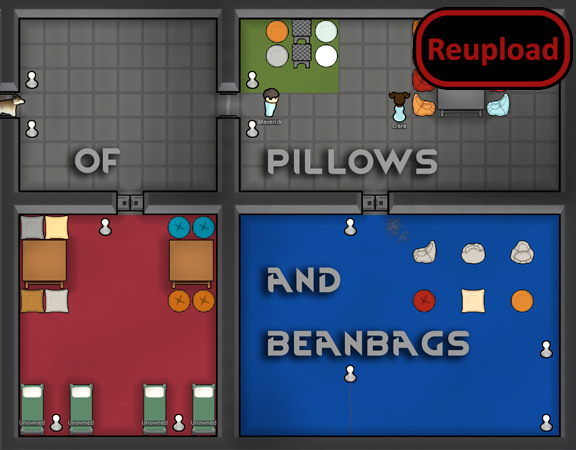
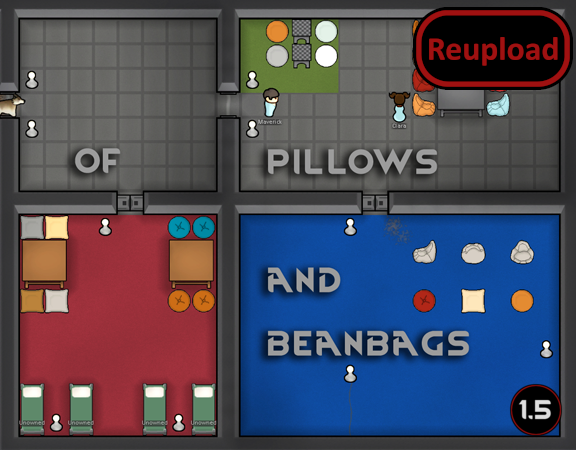
Mod updated for 1.5 and passed autotests

Changed region(s): [[0.875, 0.84, 1.0, 0.9644]]

diff --git a/README.md b/README.md
@@ -42,11 +42,13 @@ Changelog in forumtopic or about folder of mod.
 
 -  See if the the error persists if you just have this mod and its requirements active.
 -  If not, try adding your other mods until it happens again.
--  Post your error-log using https://steamcommunity.com/workshop/filedetails/?id=818773962]HugsLib and command Ctrl+F12
+-  Post your error-log using https://steamcommunity.com/workshop/filedetails/?id=818773962]HugsLib or the standalone https://steamcommunity.com/sharedfiles/filedetails/?id=2873415404]Uploader and command Ctrl+F12
 -  For best support, please use the Discord-channel for error-reporting.
 -  Do not report errors by making a discussion-thread, I get no notification of that.
 -  If you have the solution for a problem, please post it to the GitHub repository.
+-  Use https://github.com/RimSort/RimSort/releases/latest]RimSort to sort your mods
 
 
 
+https://steamcommunity.com/sharedfiles/filedetails/changelog/2036373326]![Image](https://img.shields.io/github/v/release/emipa606/SDPillowsAndBeanbags?label=latest%20version&style=plastic&color=9f1111&labelColor=black)
 
